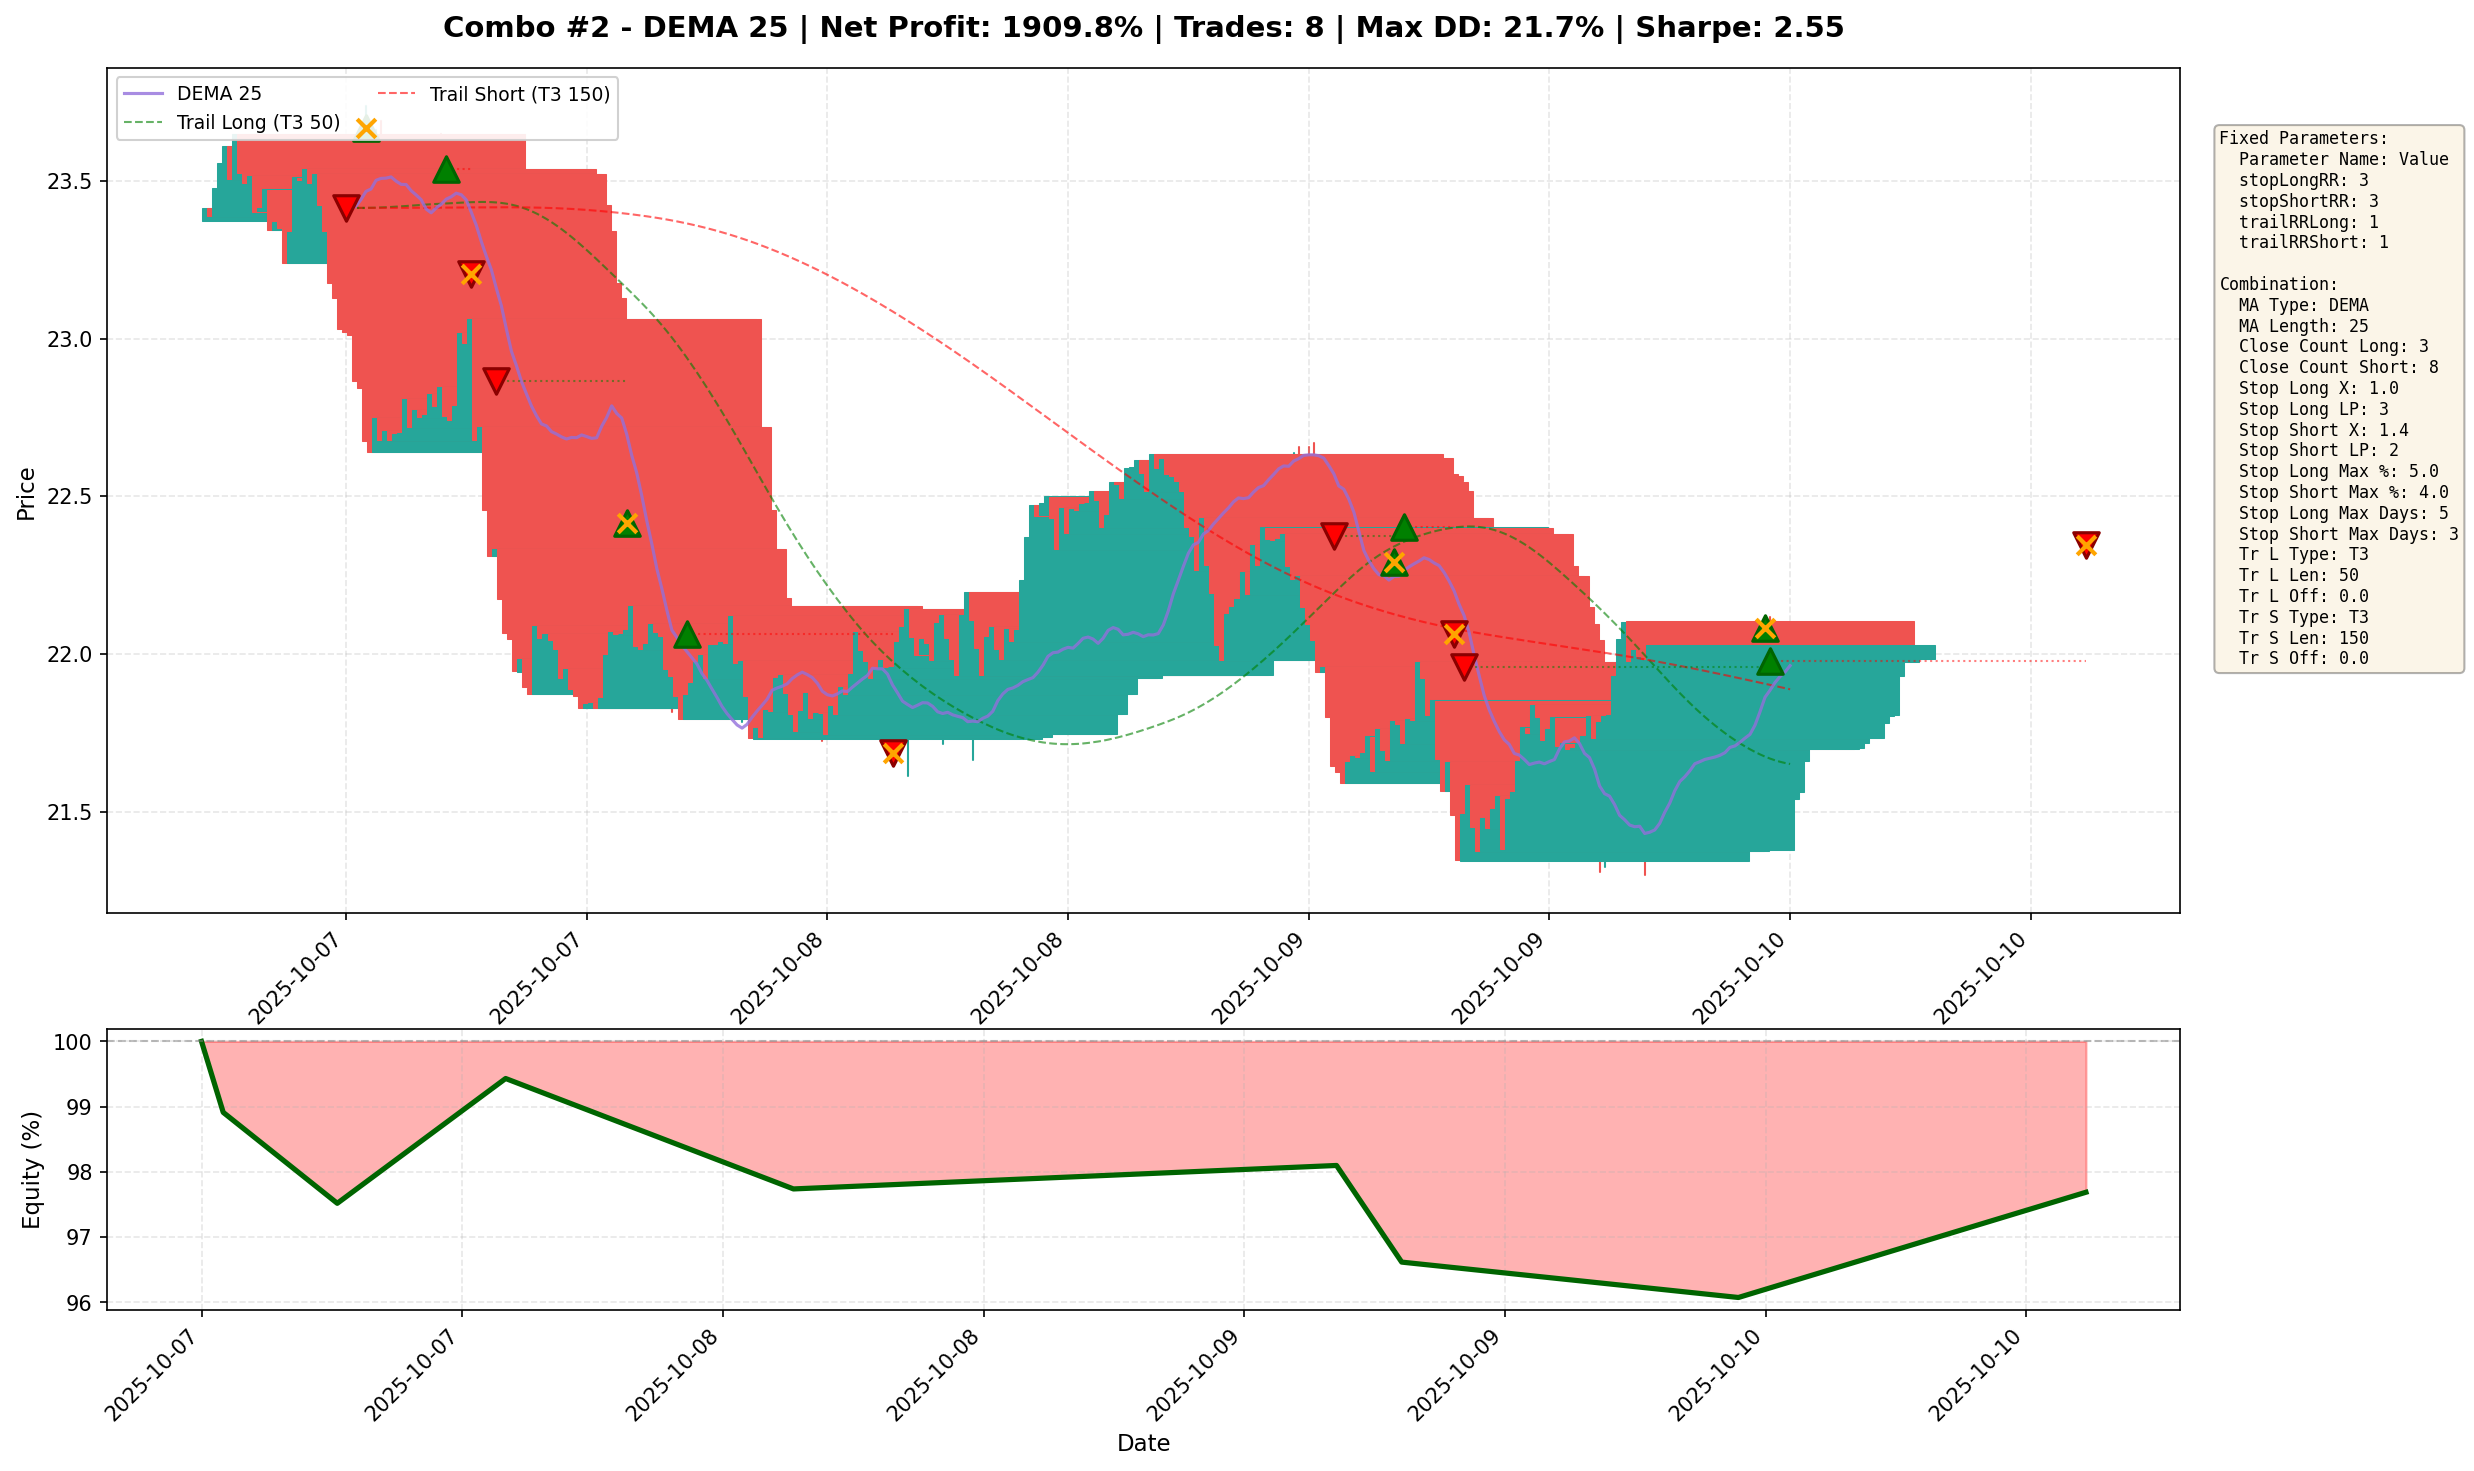
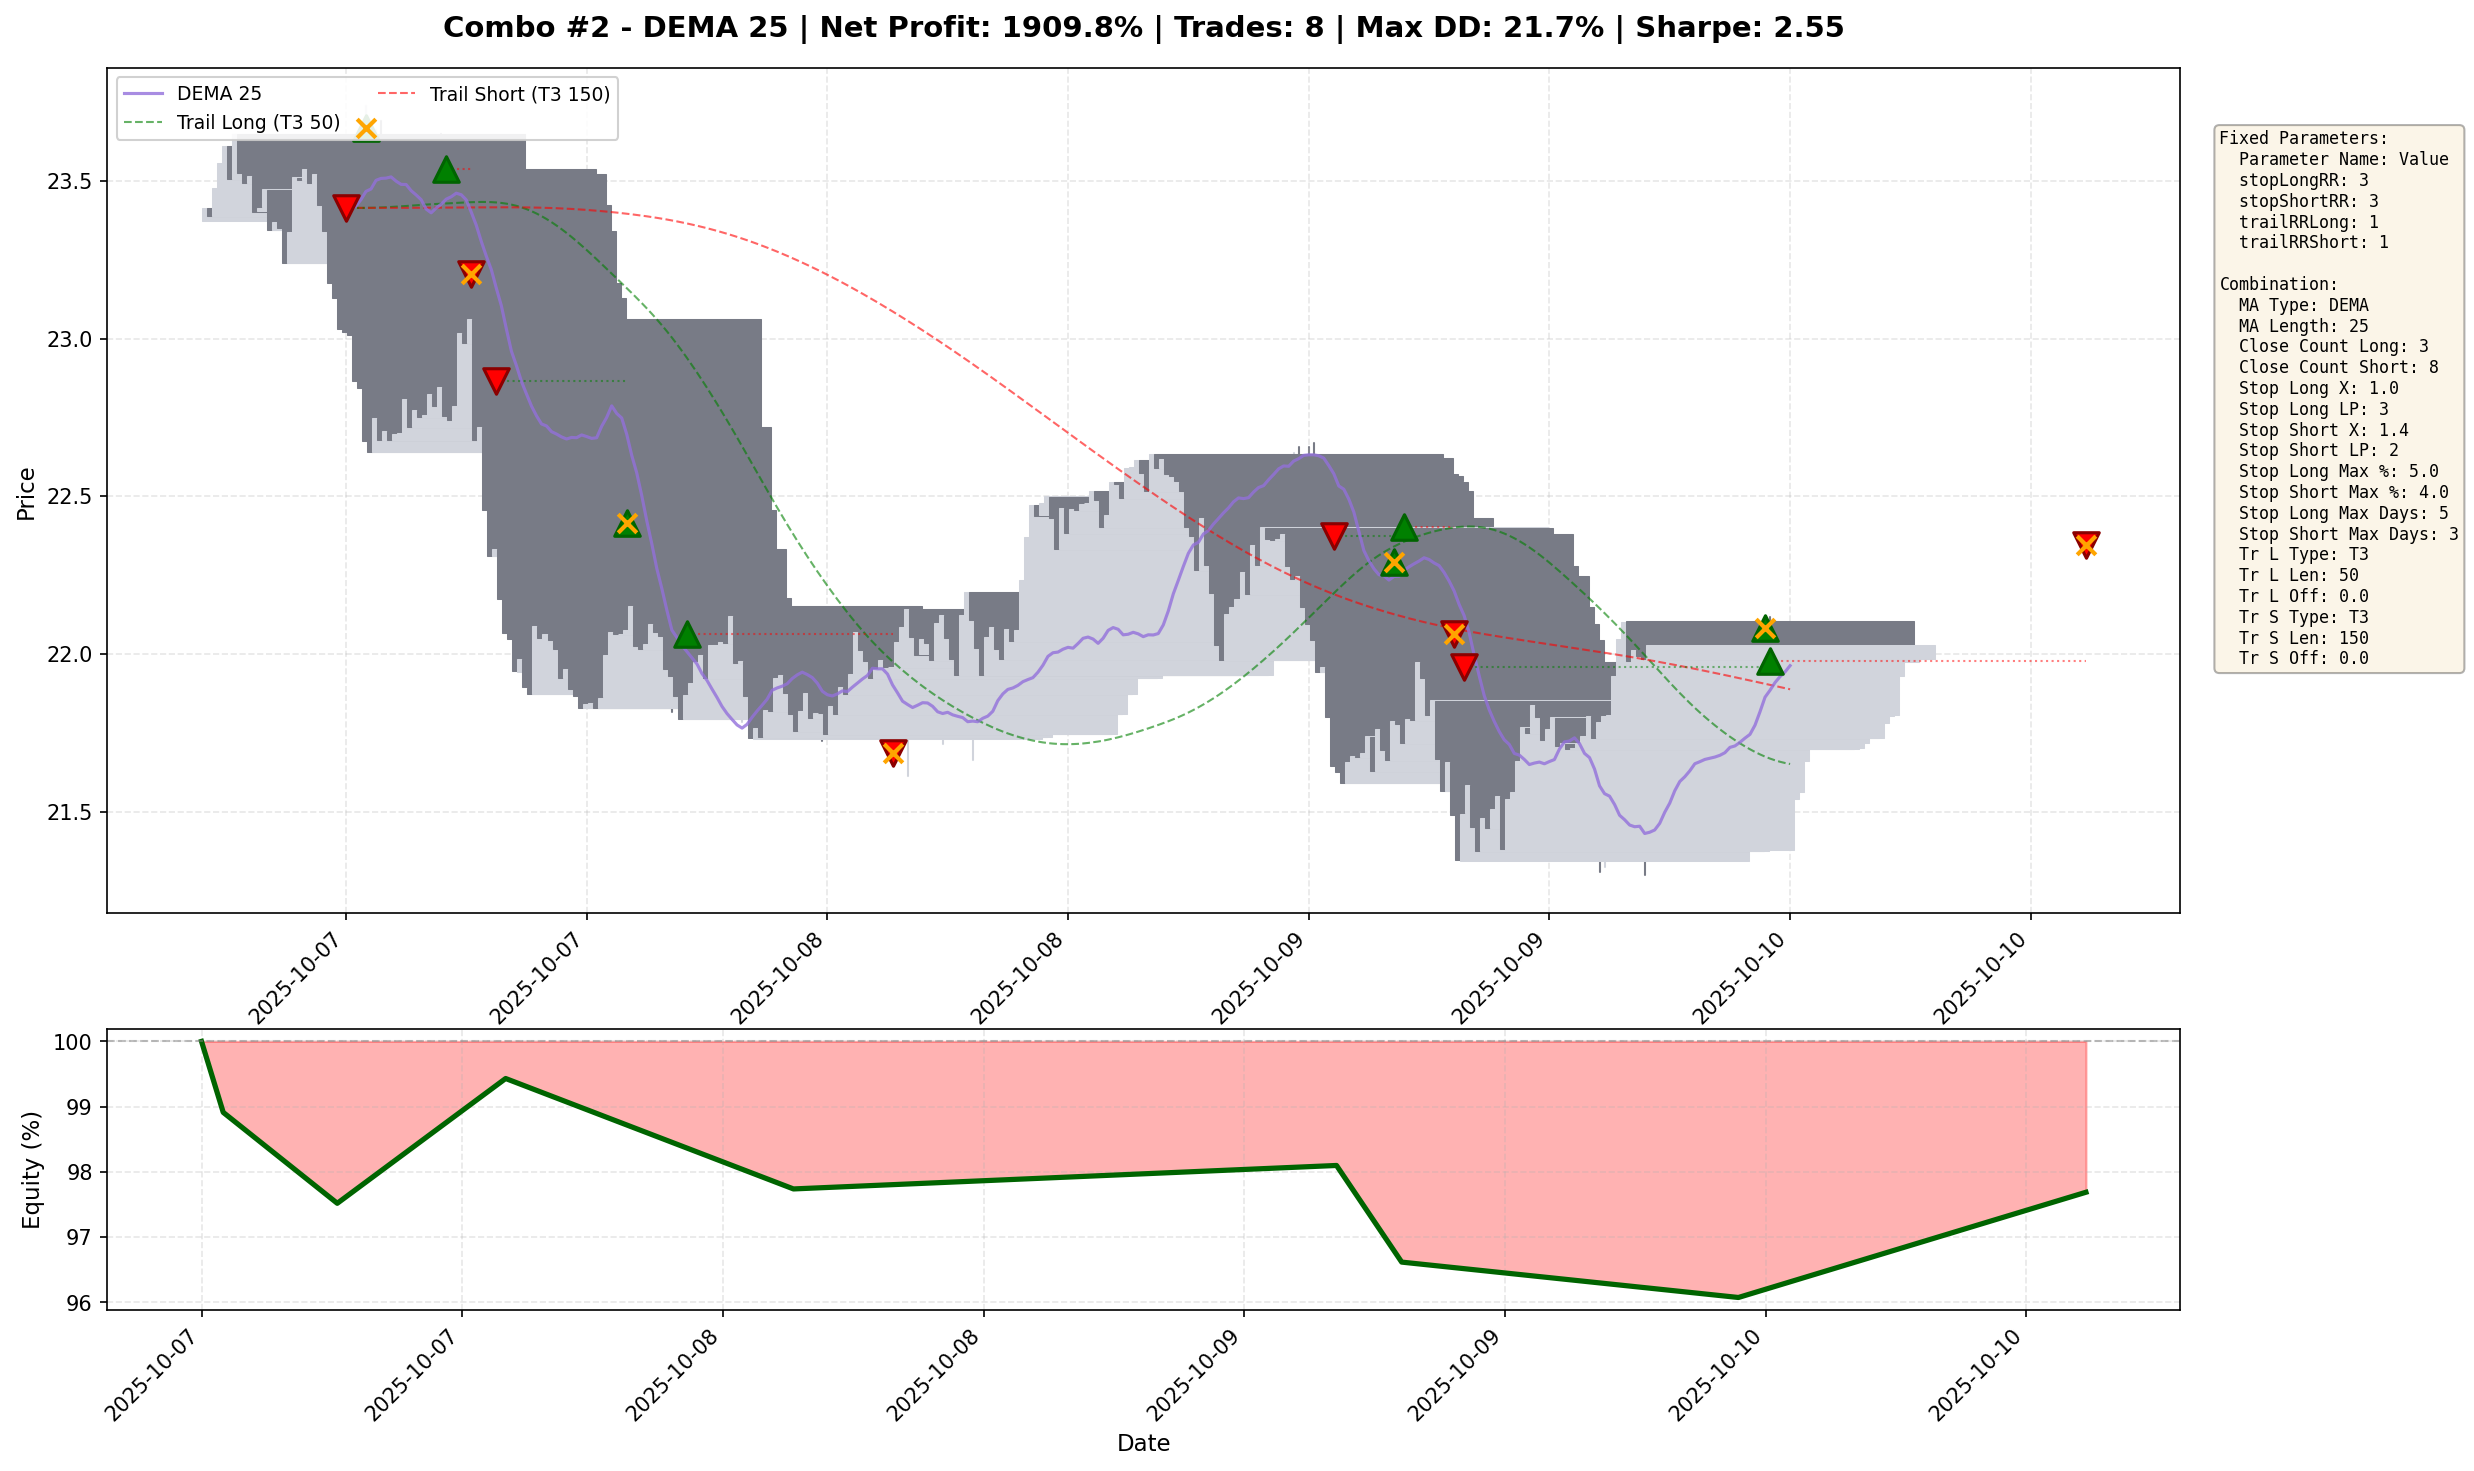
Change candlestick colors to TradingView style
Updated candlestick chart colors from green/red to light-gray/dark-gray
to match TradingView's visual style:
- Bullish candles: #d1d4dc (light gray)
- Bearish candles: #787b86 (dark gray)

This change makes the charts more professional and easier to read,
matching the reference chart style provided by the user.

Changed region(s): [[0.0622, 0.0918, 0.7781, 0.6118]]

diff --git a/visualize_cli.py b/visualize_cli.py
@@ -563,8 +563,8 @@ class TradeVisualizer:
         ax_equity = fig.add_subplot(gs[1, :3])
         ax_params = fig.add_subplot(gs[:2, 3])
         
-        # График цены - японские свечи
-        self._plot_candlesticks(ax_price, data)
+        # График цены - японские свечи (TradingView style colors)
+        self._plot_candlesticks(ax_price, data, colorup='#d1d4dc', colordown='#787b86')
 
         # Скользящая средняя (фиолетовый ненасыщенный цвет)
         ax_price.plot(data.index, data['ma'],
